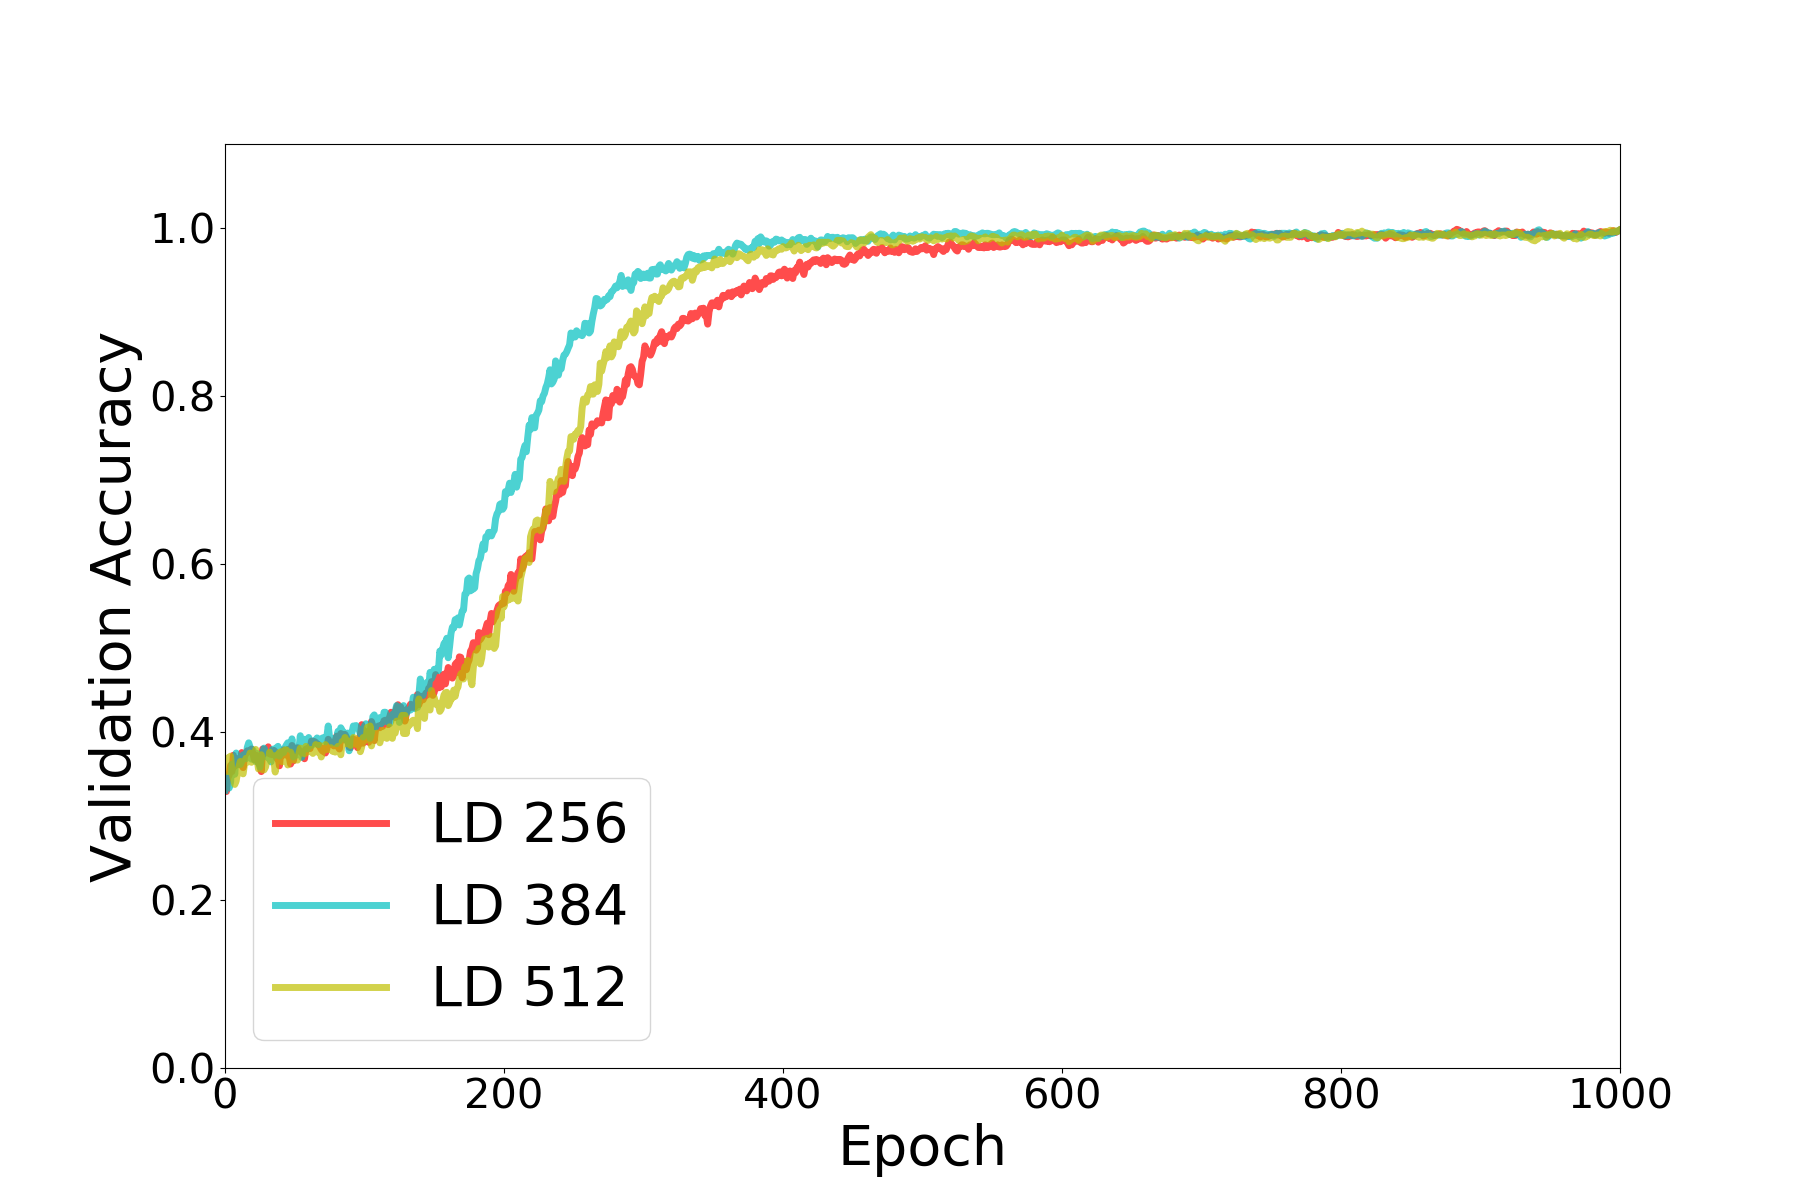
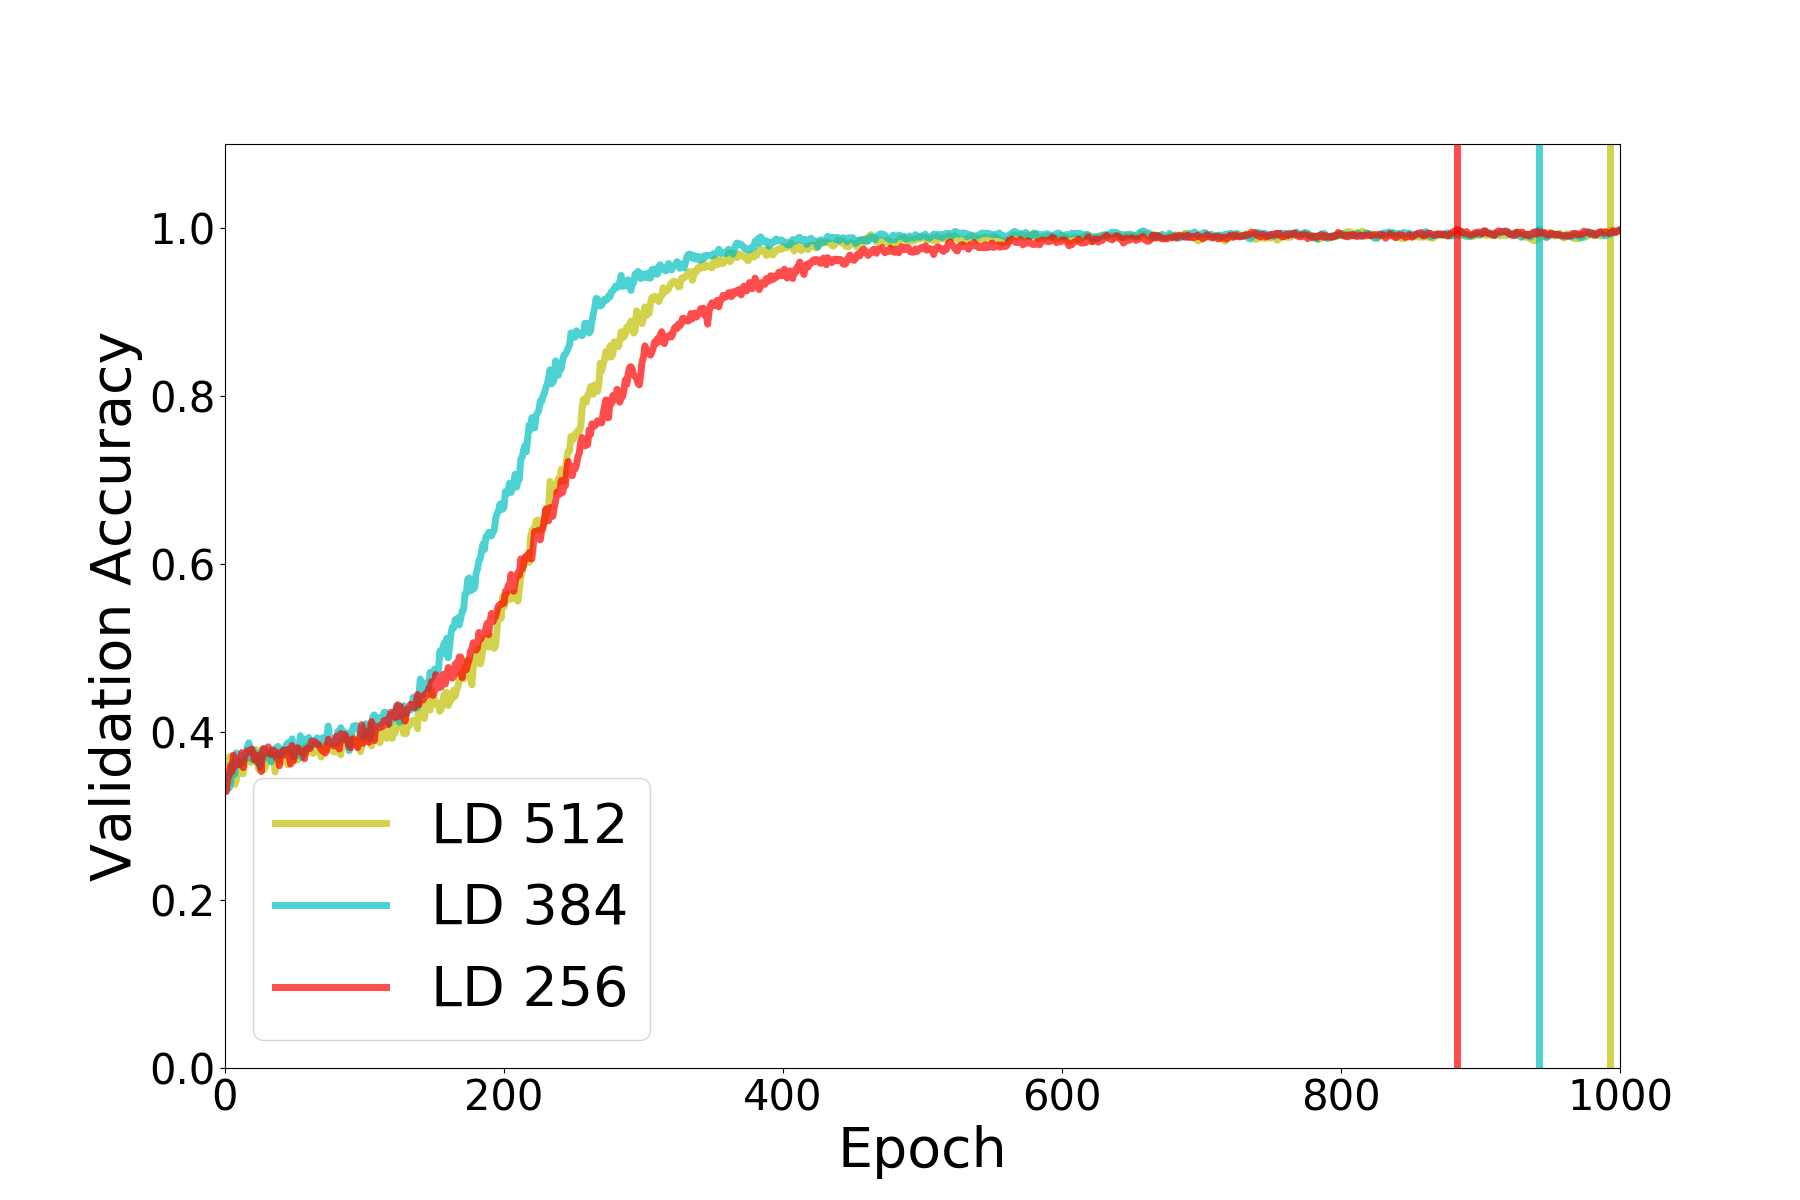
Update graphs

diff --git a/src/app/helper_scripts/2_training_validation_graph_aggregate.py b/src/app/helper_scripts/2_training_validation_graph_aggregate.py
@@ -1,8 +1,10 @@
 import os
 
-import utils.directory_utils as UTILS
 import matplotlib.pyplot as plt
 import numpy as np
+
+import utils.directory_utils as UTILS
+
 
 def set_up_plot(is_training):
     epochs = 1000
@@ -45,7 +47,7 @@ def main():
             ids.add(fasta_id)
 
     training_file = "training.npy"
-    validation_file = "validation.npy"
+    validation_file = "weighted_mean.npy"
 
     linewidth = 5
     alpha = 0.7
@@ -65,6 +67,10 @@ def main():
                         training_metrics = np.load(training_folder + training_file)
                         training_epochs = np.arange(len(training_metrics))
                         plt.plot(training_epochs, training_metrics, linewidth=linewidth, alpha=alpha, color=colours[rnn_dim], label="LD " + str(rnn_dim))
+
+                        validation_metrics = np.load(training_folder + validation_file)
+                        best_epoch = np.argmax(validation_metrics)
+                        plt.axvline(best_epoch, linewidth=linewidth, alpha=alpha, color=colours[rnn_dim])
             plt.legend(loc="best")
             fig = plt.savefig(output_folder + plot_id)
             plt.close(fig)
@@ -82,8 +88,10 @@ def main():
                         training_folder = folder_path + results_file + terminal_char
                         validation_metrics = np.load(training_folder + validation_file)
                         validation_epochs = np.arange(len(validation_metrics))
-                        mean = np.mean(validation_metrics, axis=1)
-                        plt.plot(validation_epochs, mean, linewidth=linewidth, alpha=alpha, color=colours[rnn_dim], label="LD " + str(rnn_dim))
+                        plt.plot(validation_epochs, validation_metrics, linewidth=linewidth, alpha=alpha, color=colours[rnn_dim], label="LD " + str(rnn_dim))
+
+                        best_epoch = np.argmax(validation_metrics)
+                        plt.axvline(best_epoch, linewidth=linewidth, alpha=alpha, color=colours[rnn_dim])
             plt.legend(loc="best")
             fig = plt.savefig(output_folder + plot_id)
             plt.close(fig)
